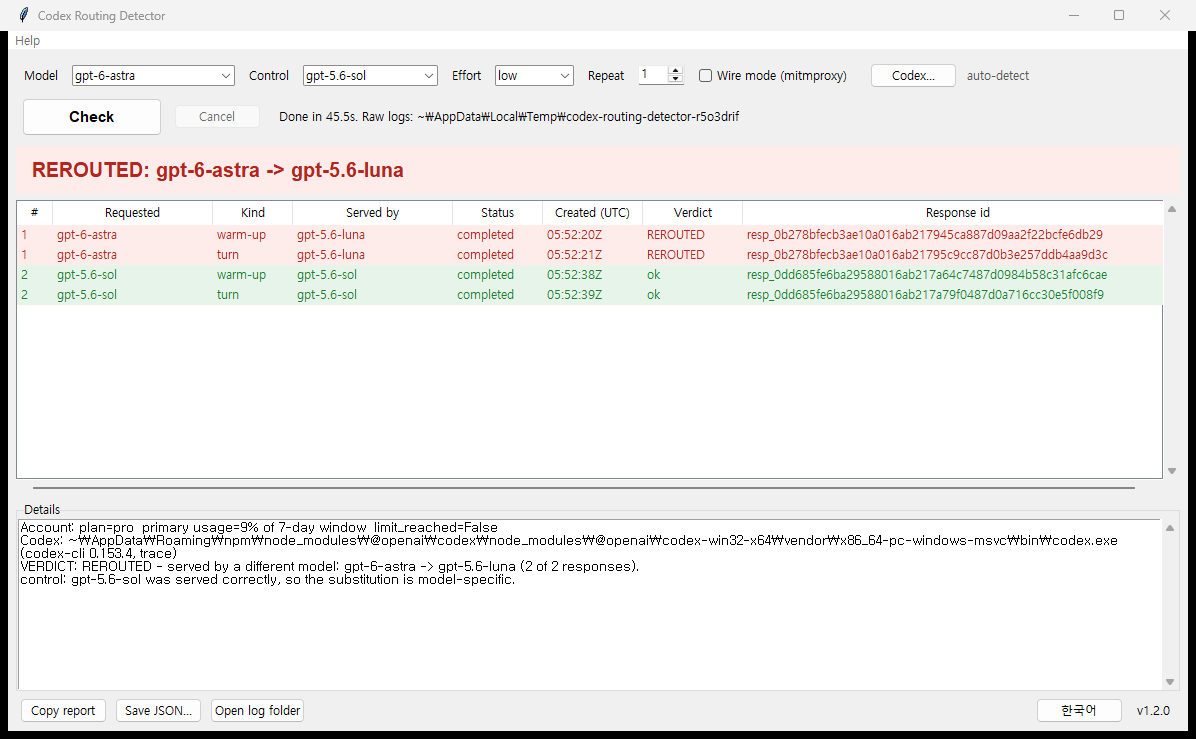
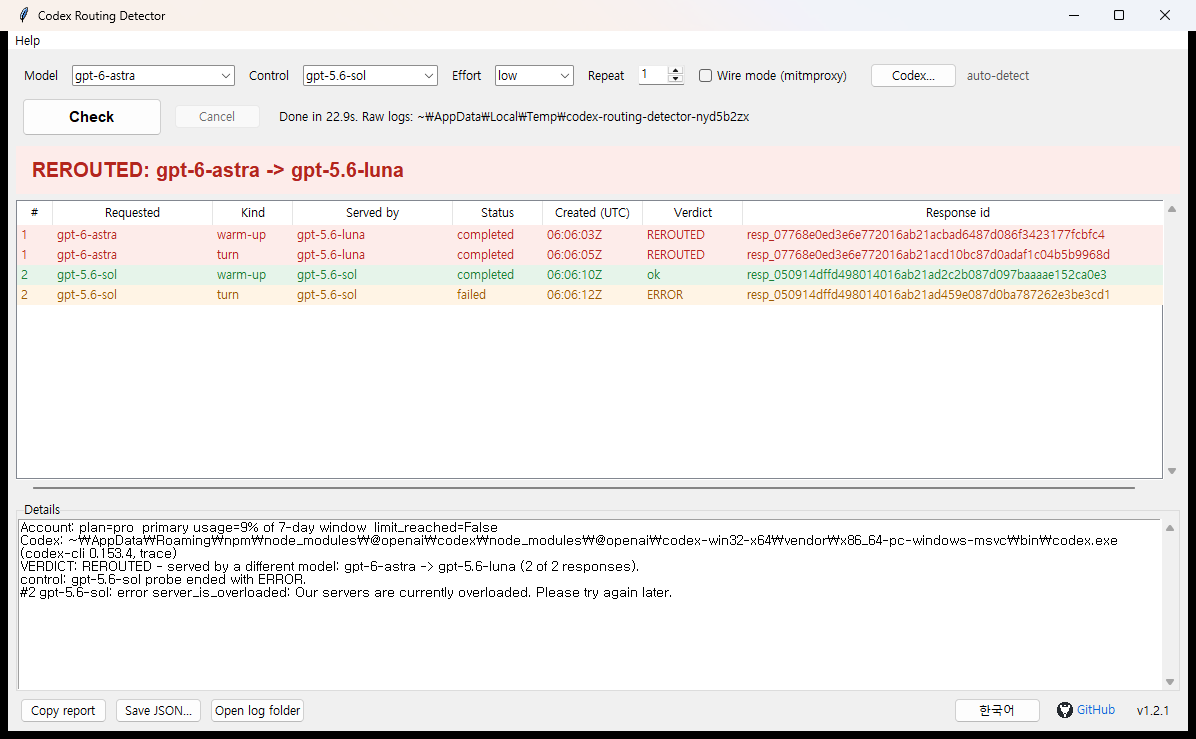
Add GitHub link to the window, drop issue references, v1.2.1

diff --git a/codex_routing_detector_gui.py b/codex_routing_detector_gui.py
@@ -29,6 +29,12 @@ from tkinter import filedialog, messagebox, ttk
 import codex_routing_detector as cmc
 
 APP_TITLE = "Codex Routing Detector"
+REPO_URL = "https://github.com/darkdarkcocoa/codex-routing-detector"
+# 16x16 GitHub-style mark (dark disc, white silhouette), embedded so the exe needs no image file.
+GITHUB_ICON_PNG_B64 = (
[2 lines of base64/hex data omitted]
+)
 FALLBACK_MODELS = ["gpt-6-astra", "gpt-5.6-sol", "gpt-5.6-terra", "gpt-5.6-luna", "gpt-5.5"]
 EFFORTS = ["low", "medium", "high", "xhigh"]
 MAX_REPEAT = 10
@@ -243,18 +249,19 @@ HELP_ABOUT = {
 
 Shows which model actually answers your Codex requests, by reading the model name the server
 writes into its own response objects. Built on 2026-09-22 after wire captures showed
-gpt-6-astra requests being served by gpt-5.6-luna on a ChatGPT Pro account
-(public tracker: openai/codex issue #46632).
+gpt-6-astra requests being served by gpt-5.6-luna on a ChatGPT Pro account.
 
 The command-line version (codex_routing_detector.py) has more options; see README.md.
+Source and updates: {repo}
 """,
     "ko": """codex-routing-detector v{version}
 
 서버가 응답 객체에 적은 모델명을 읽어서, Codex 요청에 실제로 어떤 모델이 응답했는지
 보여줍니다. 2026-09-22에 ChatGPT Pro 계정에서 gpt-6-astra 요청이 gpt-5.6-luna로 처리되는
-것을 패킷 캡처로 확인한 뒤 만들었습니다 (공개 이슈: openai/codex #46632).
+것을 패킷 캡처로 확인한 뒤 만들었습니다.
 
 명령줄 버전(codex_routing_detector.py)에 더 많은 옵션이 있습니다. README.md를 참고하세요.
+소스와 업데이트: {repo}
 """,
 }
 
@@ -443,6 +450,14 @@ class App:
         self.btn_logs = ttk.Button(bottom, command=self.open_logs, state="disabled")
         self.btn_logs.pack(side="left", padx=4)
         ttk.Label(bottom, text=f"v{cmc.__version__}").pack(side="right", padx=8)
+        try:
+            self.github_icon = tk.PhotoImage(data=GITHUB_ICON_PNG_B64)
+        except tk.TclError:  # very old Tk without PNG support: text-only link
+            self.github_icon = None
+        self.link_github = tk.Label(bottom, text="GitHub", image=self.github_icon, compound="left",
+                                    fg="#0969da", cursor="hand2", padx=4)
+        self.link_github.pack(side="right", padx=6)
+        self.link_github.bind("<Button-1>", lambda _e: self.open_repo())
         self.btn_lang = ttk.Button(bottom, command=self.toggle_language)
         self.btn_lang.pack(side="right", padx=4)
 
@@ -500,7 +515,7 @@ class App:
     # ------------------------------------------------------------------- help
     def help_text(self, kind: str) -> str:
         table = {"usage": HELP_USAGE, "terms": HELP_TERMS, "about": HELP_ABOUT}[kind]
-        return table[self.lang].format(version=cmc.__version__)
+        return table[self.lang].format(version=cmc.__version__, repo=REPO_URL)
 
     def show_help(self, kind: str) -> tk.Toplevel:
         win = self.help_windows.get(kind)
@@ -751,6 +766,10 @@ class App:
     def open_logs(self) -> None:
         if self.result is not None and self.result.outdir:
             open_folder(self.result.outdir)
+
+    def open_repo(self) -> None:
+        import webbrowser
+        webbrowser.open(REPO_URL)
 
 
 def _enable_dpi_awareness() -> None:

diff --git a/tests/test_gui.py b/tests/test_gui.py
@@ -174,6 +174,20 @@ class GuiSmoke(unittest.TestCase):
         self.assertIn(cmc.__version__, about)
         self.assertIs(self.app.show_help("terms"), win)  # reused, not duplicated
 
+    def test_github_link_opens_the_repository(self):
+        import webbrowser
+        opened = []
+        original = webbrowser.open
+        webbrowser.open = lambda url, *a, **k: opened.append(url) or True
+        try:
+            self.assertIn("<Button-1>", self.app.link_github.bind())  # click is wired up
+            self.app.open_repo()  # a withdrawn window does not receive synthetic clicks
+        finally:
+            webbrowser.open = original
+        self.assertEqual(opened, [gui.REPO_URL])
+        self.assertIsNotNone(self.app.github_icon)
+        self.assertIn(gui.REPO_URL, self.app.show_help("about").help_text.get("1.0", "end"))
+
     def test_poll_survives_a_bad_message(self):
         self.app.q.put(("progress", "probe_done", {"probe": object()}))  # malformed probe
         self._pump(1)

diff --git a/codex_routing_detector.py b/codex_routing_detector.py
@@ -47,7 +47,7 @@ from dataclasses import asdict, dataclass, field
 from pathlib import Path
 from typing import Dict, List, Optional, Tuple
 
-__version__ = "1.2.0"
+__version__ = "1.2.1"
 
 FALLBACK_MODEL = "gpt-6-astra"
 DEFAULT_CONTROL = "gpt-5.6-sol"

diff --git a/README.md b/README.md
@@ -16,8 +16,7 @@ server's own response object said `model: gpt-5.6-luna`. Requests for `gpt-5.6-s
 and the client was never told. Codex has a `model/rerouted` notification and a "switched
 because of usage limits" banner in its protocol, and neither fired. The UI kept saying astra;
 the usage meter charged for astra; the answers came from luna. The same thing was reproduced
-independently by other people on ordinary Plus and Pro accounts
-(openai/codex#46632).
+independently by other people on ordinary Plus and Pro accounts.
 
 You cannot see this from inside Codex: the UI and the local session logs only record the model
 you *asked for*. This tool reads the model name the **server** puts into its response objects,
@@ -167,8 +166,7 @@ model is not, the substitution is specific to that model, not a broken account o
 
 If you see `REROUTED`, the useful facts for a bug report are the response ids, the
 `created_at` times (UTC), the requested/served pair, your plan type and usage line, and the
-Codex version. `--json` writes all of them. A public tracker for the `gpt-6-astra` ->
-`gpt-5.6-luna` case is openai/codex issue #46632.
+Codex version. `--json` writes all of them.
 
 ## Without Python
 
@@ -220,7 +218,7 @@ tree.
 요청은 `model: gpt-6-astra`였는데 서버가 돌려준 응답 객체에는 `model: gpt-5.6-luna`가
 적혀 있었습니다. 같은 시간에 sol·terra·luna 요청은 정상이었고, 사용량 한도도 한참 남아
 있었고, 클라이언트에는 아무 알림도 없었습니다. 화면은 astra, 사용량 차감도 astra, 실제
-답은 luna. 정상 결제한 Plus·Pro 계정에서도 똑같이 재현됐습니다 (openai/codex#46632).
+답은 luna. 정상 결제한 Plus·Pro 계정에서도 똑같이 재현됐습니다.
 
 Codex 화면과 로컬 로그는 "요청한 모델"만 기록하기 때문에 이걸 보여주지 못합니다. 이 도구는
 모델마다 아주 짧은 Codex 턴을 하나 돌리고, **서버가 직접 써서 보낸 응답 객체**의 `model`
